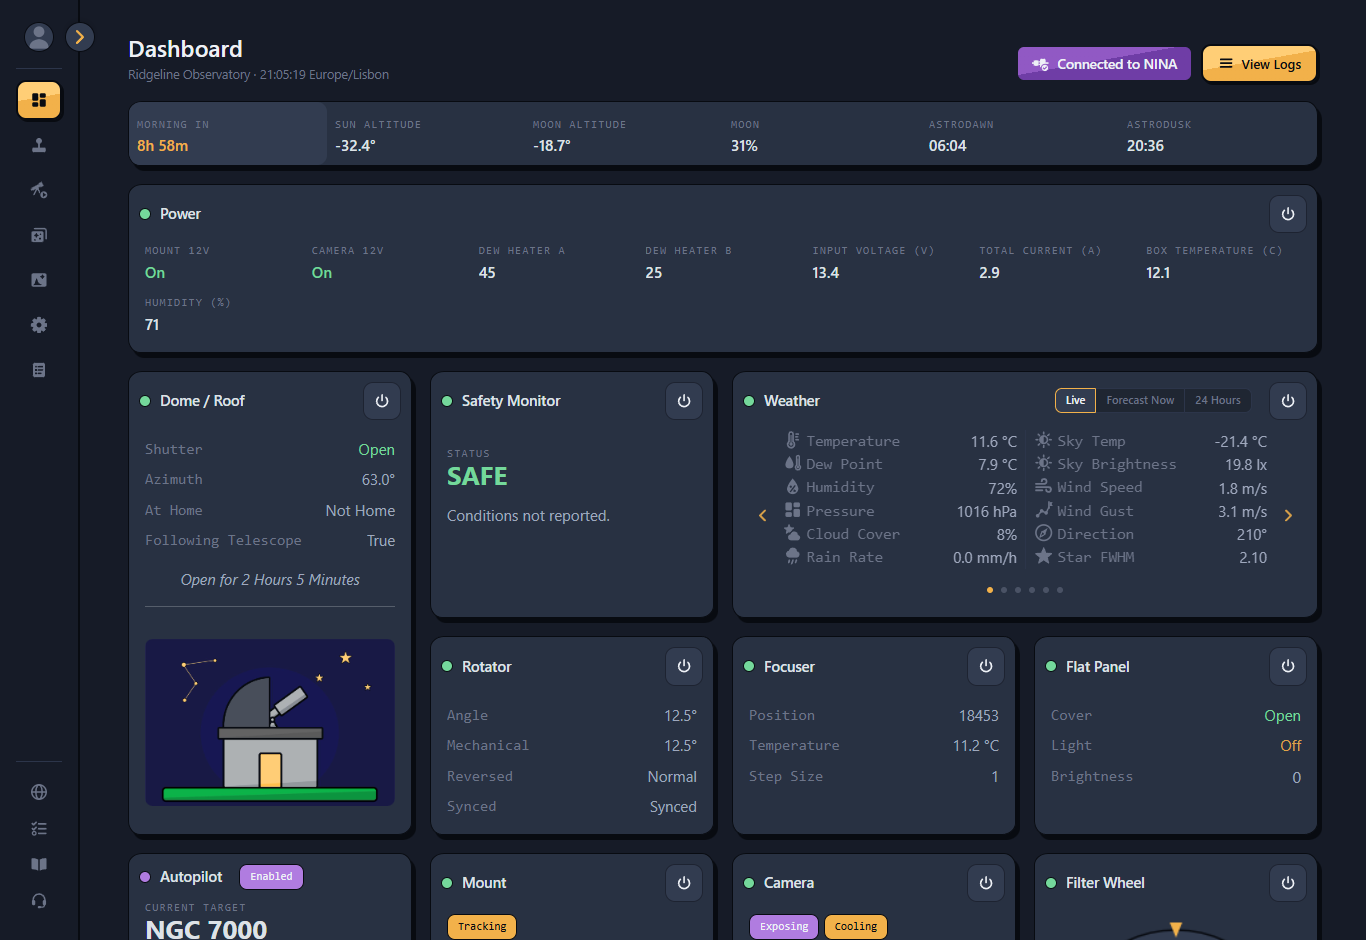
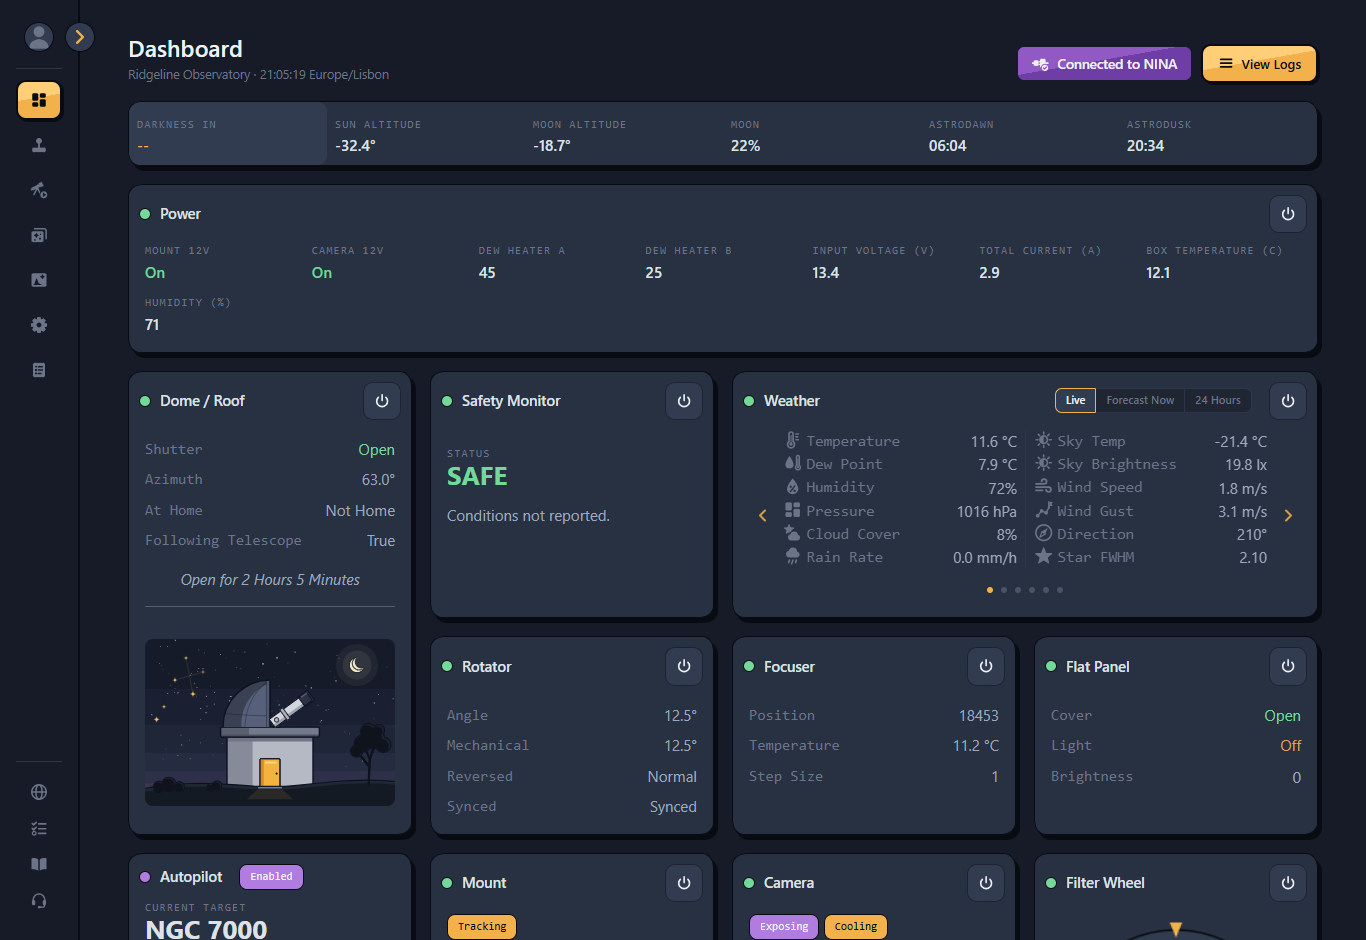
Astraeus 1.0.1.280

Changed region(s): [[0.0922, 0.6787, 0.3075, 0.8638], [0.0922, 0.1234, 0.1537, 0.1543]]

diff --git a/Engine/Components/Dome.cs b/Engine/Components/Dome.cs
@@ -558,13 +558,21 @@ namespace CosmicVaults.NINA.Astraeus.Engine {
                 return false;
             }
         }
-
+     
         ///////////// Helpers /////////////
+        
+        // Only a connected monitor that reads unsafe stops a manual open. Without one the observer
+        // decides, unless N.I.N.A. would refuse the open anyway, so the dashboard is told why.
         private string? WhyShutterCannotOpen() {
-            if (_safetyMonitor is not { IsConnected: true }) {
-                return "no safety monitor is connected, so conditions cannot be confirmed safe";
+            if (_safetyMonitor is { IsConnected: true } monitor) {
+                return monitor.IsSafe() ? null : "the safety monitor reports conditions are unsafe";
             }
-            return _safetyMonitor.IsSafe() ? null : "the safety monitor reports conditions are unsafe";
+            bool isRefusedWithoutMonitor = Observatory.Settings.ProfileService.ActiveProfile.DomeSettings
+                .RefuseUnsafeShutterOpenSansSafetyDevice;
+            return isRefusedWithoutMonitor
+                ? "no safety monitor is connected, and \"Refuse unsafe shutter open without safety device\" " +
+                  "is on in Roof Safety"
+                : null;
         }
 
     }

diff --git a/CHANGELOG.md b/CHANGELOG.md
@@ -13,6 +13,7 @@ First public beta, through N.I.N.A.'s plugin manager.
   this version, the plugin says so in N.I.N.A., on the options page and in the log, and stops
   talking to the server instead of failing over and over. A running Autopilot parks the mount,
   closes the roof and switches off.
+- **Roof safety.** The roof can open without a safety monitor when N.I.N.A.'s settings allow it. 
 - **Calibration masters.** Masters generated on this PC are found again after uploading, so frames
   are calibrated with them. Before, every master was skipped as "not generated on this PC". A
   regenerated master replaces the older file. Calibration frames without GAIN/OFFSET headers now
